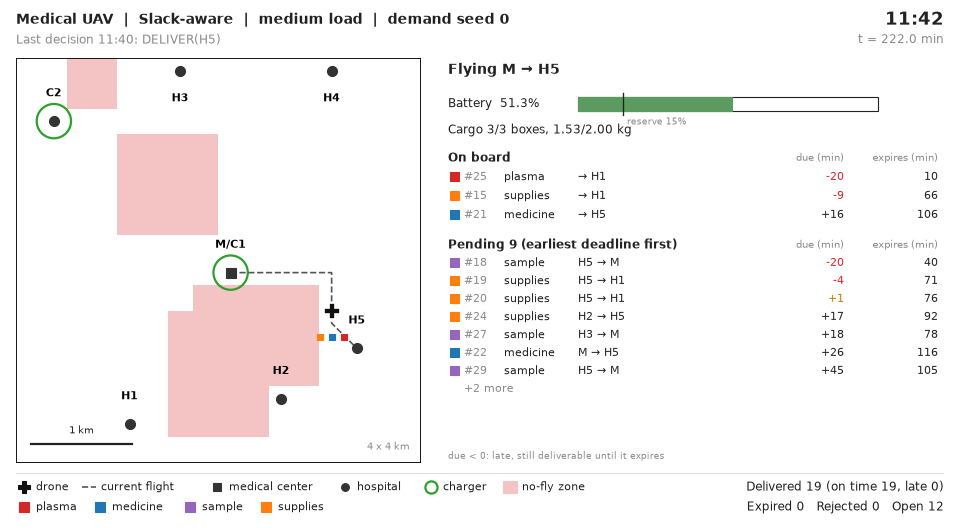
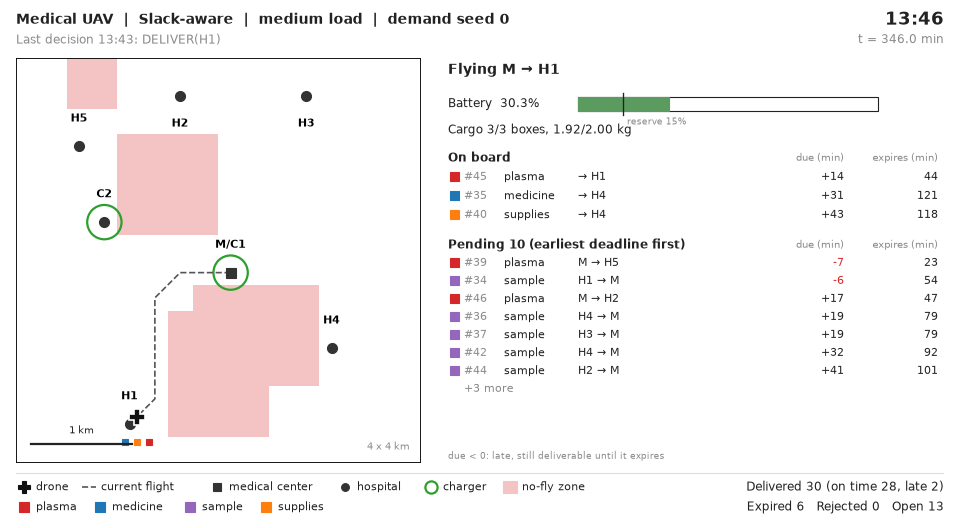
Recalibrate on the revised map 0; new README frame
Loads stay 0.04/0.08/0.12 (Slack-aware 1.00/0.87/0.67, EDF 1.00/0.56/0.29, theta 20).
C2 now takes 22-31 % of the baselines' charges. Default demo snapshot at 13:46.

diff --git a/scripts/demo.py b/scripts/demo.py
@@ -22,7 +22,7 @@ from medical_uav.metrics import episode_metrics, summary_lines
 
 NON_INTERACTIVE_BACKENDS = ("agg", "pdf", "svg", "ps", "cairo", "template")
 POLICY_NAMES = {"slack": "Slack-aware", "edf": "EDF", "random": "Random"}
-DEFAULT_SNAPSHOT = 222.0  # minutes; a busy moment of the default day
+DEFAULT_SNAPSHOT = 346.0  # minutes; a busy moment of the default day
 
 
 def make_policy(name: str, seed: int):

diff --git a/docs/reports/m1/calibration.md b/docs/reports/m1/calibration.md
@@ -1,41 +1,26 @@
-Command: python scripts/calibrate.py --tune-theta --map-check 200 --benchmark
+Command: python scripts/calibrate.py --tune-theta --out outputs/calibration_newmap
 
-map_seed = 0; dev seeds 100000..100039 (40 days per row); charging threshold θ edf 20 %, slack 20 %
+map seed 0; demand seeds 100000-100039 (40 days per row); charging threshold EDF 20%, Slack-aware 20% (tuned in this run).
+
+λ is the base arrival rate in orders per minute. Rates are means of the daily rates over the days of a row, with the population SD across days; a day's on-time rate is on-time deliveries / all orders released that day (rejected included). Pool statistics are pooled over all decisions; hidden % is the share of decisions at which an order that could still be on time (direct estimate) is not among the 12 visible slots.
 
 | λ | policy | orders | on-time (mean ± day SD) | served | expired | rejected | km/deliv | charge | busy | decisions | pool mean/p95/max | hidden % | hidden mean |
 |---|---|---|---|---|---|---|---|---|---|---|---|---|---|
-| 0.04 | slack | 21.6 | 1.00 ± 0.01 | 1.00 | 0.00 | 0.0 | 4.71 | 0.15 | 0.39 | 3230 | 0.5/2/5 | 0.0 | 0.00 |
-| 0.04 | edf | 21.6 | 1.00 ± 0.01 | 1.00 | 0.00 | 0.0 | 4.85 | 0.15 | 0.39 | 3226 | 0.5/2/6 | 0.0 | 0.00 |
-| 0.04 | random | 21.6 | 0.47 ± 0.16 | 0.78 | 0.22 | 0.0 | 10.80 | 0.26 | 0.48 | 3775 | 1.8/5/12 | 0.0 | 0.00 |
-| 0.06 | slack | 35.5 | 0.94 ± 0.07 | 0.97 | 0.03 | 0.0 | 4.01 | 0.21 | 0.57 | 3659 | 1.6/6/11 | 0.0 | 0.00 |
-| 0.06 | edf | 35.5 | 0.81 ± 0.22 | 0.99 | 0.01 | 0.0 | 4.34 | 0.22 | 0.58 | 3739 | 2.2/7/11 | 0.0 | 0.00 |
-| 0.06 | random | 35.5 | 0.31 ± 0.10 | 0.60 | 0.40 | 0.0 | 9.29 | 0.28 | 0.53 | 4018 | 4.1/10/16 | 0.0 | 0.00 |
-| 0.08 | slack | 47.1 | 0.84 ± 0.08 | 0.92 | 0.08 | 0.0 | 3.58 | 0.23 | 0.65 | 3943 | 3.3/9/16 | 0.4 | 0.00 |
-| 0.08 | edf | 47.1 | 0.51 ± 0.22 | 0.93 | 0.07 | 0.0 | 4.10 | 0.24 | 0.66 | 4162 | 4.9/12/22 | 0.9 | 0.01 |
-| 0.08 | random | 47.1 | 0.23 ± 0.07 | 0.48 | 0.52 | 0.0 | 9.22 | 0.29 | 0.56 | 4120 | 6.3/14/23 | 0.8 | 0.01 |
-| 0.10 | slack | 58.1 | 0.72 ± 0.09 | 0.85 | 0.15 | 0.0 | 3.23 | 0.23 | 0.70 | 4152 | 5.4/14/23 | 3.5 | 0.10 |
-| 0.10 | edf | 58.1 | 0.30 ± 0.12 | 0.81 | 0.19 | 0.0 | 4.06 | 0.25 | 0.68 | 4453 | 7.8/17/27 | 4.9 | 0.16 |
-| 0.10 | random | 58.1 | 0.19 ± 0.04 | 0.42 | 0.58 | 0.0 | 8.56 | 0.30 | 0.57 | 4316 | 8.4/18/29 | 3.5 | 0.11 |
-| 0.12 | slack | 67.9 | 0.65 ± 0.10 | 0.80 | 0.20 | 0.0 | 2.99 | 0.22 | 0.72 | 4372 | 7.2/17/28 | 5.9 | 0.18 |
-| 0.12 | edf | 67.9 | 0.26 ± 0.09 | 0.71 | 0.29 | 0.1 | 4.13 | 0.25 | 0.70 | 4591 | 10.1/21/30 | 10.9 | 0.34 |
-| 0.12 | random | 67.9 | 0.18 ± 0.04 | 0.38 | 0.62 | 0.3 | 8.43 | 0.30 | 0.58 | 4403 | 10.2/22/30 | 7.8 | 0.22 |
-| 0.14 | slack | 79.9 | 0.56 ± 0.08 | 0.72 | 0.28 | 0.1 | 2.79 | 0.22 | 0.73 | 4504 | 9.5/21/30 | 13.3 | 0.44 |
-| 0.14 | edf | 79.9 | 0.23 ± 0.03 | 0.61 | 0.39 | 0.7 | 4.14 | 0.25 | 0.71 | 4713 | 12.4/24/30 | 18.6 | 0.70 |
-| 0.14 | random | 79.9 | 0.16 ± 0.04 | 0.33 | 0.66 | 0.8 | 8.26 | 0.30 | 0.59 | 4426 | 12.5/25/30 | 15.1 | 0.51 |
-
-Gate G1 (amended 2026-10-11): load levels are calibrated against the strong Slack-aware heuristic,
-not EDF (EDF keeps chasing orders that can no longer be on time and falls far behind at moderate load).
-- Map: `map_seed = 0` (max A*/straight-line ratio 2.04); 200/200 map seeds generate (1.01 attempts).
-- Loads: low λ = 0.04, medium λ = 0.08, high λ = 0.12 orders/min. Slack-aware on-time: 1.00 / 0.84 / 0.65;
-  EDF: 1.00 / 0.51 / 0.26. λ = 0.10 is a diagnostic point; λ = 0.14 is a stress setting only
-  (an on-time-feasible order is hidden beyond the 12 slots in 13 % of decisions).
-- Charging threshold θ tuned per heuristic on dev seeds at λ 0.08 from {20, 30, 40} %:
-  EDF 0.514 / 0.444 / 0.421, Slack-aware 0.842 / 0.829 / 0.820 -> θ = 20 % for both.
-- Throughput: ~9,100 decisions/s per process (random policy, medium load).
-
-Columns: on-time is the mean over days ± the day-to-day standard deviation; on-time / served /
-expired are fractions of all released orders; decisions = total decisions in the row's 40 days; rejected = orders per day
-refused because the pending pool was full; km/deliv = km flown per delivered order; charge / busy =
-share of the episode spent charging / flying+handling; pool = pending orders at each decision
-(mean/p95/max); hidden % = share of decisions in which at least one order that could still be on
-time was outside the 12 visible slots; hidden mean = average number of such orders per decision.
+| 0.04 | slack | 21.6 | 1.00 ± 0.00 | 1.00 | 0.00 | 0.0 | 4.43 | 0.14 | 0.37 | 3278 | 0.5/2/7 | 0.0 | 0.00 |
+| 0.04 | edf | 21.6 | 1.00 ± 0.02 | 1.00 | 0.00 | 0.0 | 4.55 | 0.14 | 0.38 | 3283 | 0.5/2/8 | 0.0 | 0.00 |
+| 0.04 | random | 21.6 | 0.59 ± 0.14 | 0.86 | 0.14 | 0.0 | 7.76 | 0.21 | 0.42 | 4349 | 1.5/5/11 | 0.0 | 0.00 |
+| 0.06 | slack | 35.5 | 0.96 ± 0.06 | 0.99 | 0.01 | 0.0 | 3.81 | 0.20 | 0.56 | 3749 | 1.5/5/11 | 0.0 | 0.00 |
+| 0.06 | edf | 35.5 | 0.86 ± 0.20 | 0.99 | 0.01 | 0.0 | 4.14 | 0.21 | 0.58 | 3806 | 2.0/7/12 | 0.0 | 0.00 |
+| 0.06 | random | 35.5 | 0.39 ± 0.13 | 0.72 | 0.28 | 0.0 | 6.45 | 0.24 | 0.51 | 4619 | 3.6/9/14 | 0.0 | 0.00 |
+| 0.08 | slack | 47.1 | 0.87 ± 0.08 | 0.95 | 0.05 | 0.0 | 3.33 | 0.22 | 0.65 | 4014 | 3.2/9/14 | 0.3 | 0.00 |
+| 0.08 | edf | 47.1 | 0.56 ± 0.23 | 0.94 | 0.06 | 0.0 | 3.93 | 0.24 | 0.66 | 4236 | 4.7/12/22 | 1.3 | 0.02 |
+| 0.08 | random | 47.1 | 0.32 ± 0.08 | 0.60 | 0.40 | 0.0 | 6.18 | 0.26 | 0.55 | 4796 | 5.6/13/20 | 0.6 | 0.01 |
+| 0.10 | slack | 58.1 | 0.75 ± 0.09 | 0.88 | 0.12 | 0.0 | 3.01 | 0.22 | 0.70 | 4248 | 5.2/14/21 | 3.0 | 0.08 |
+| 0.10 | edf | 58.1 | 0.32 ± 0.13 | 0.83 | 0.17 | 0.0 | 3.89 | 0.24 | 0.69 | 4538 | 7.7/17/27 | 4.8 | 0.15 |
+| 0.10 | random | 58.1 | 0.27 ± 0.05 | 0.51 | 0.49 | 0.0 | 6.06 | 0.26 | 0.57 | 4898 | 7.7/17/29 | 3.1 | 0.09 |
+| 0.12 | slack | 67.9 | 0.67 ± 0.09 | 0.81 | 0.19 | 0.0 | 2.87 | 0.22 | 0.72 | 4426 | 7.1/16/27 | 6.1 | 0.19 |
+| 0.12 | edf | 67.9 | 0.29 ± 0.13 | 0.73 | 0.27 | 0.1 | 3.87 | 0.24 | 0.70 | 4646 | 9.8/21/30 | 11.1 | 0.33 |
+| 0.12 | random | 67.9 | 0.23 ± 0.06 | 0.46 | 0.54 | 0.2 | 5.95 | 0.27 | 0.58 | 4992 | 9.7/20/30 | 6.8 | 0.20 |
+| 0.14 | slack | 79.9 | 0.59 ± 0.07 | 0.73 | 0.27 | 0.1 | 2.68 | 0.22 | 0.74 | 4588 | 9.3/20/30 | 13.2 | 0.43 |
+| 0.14 | edf | 79.9 | 0.24 ± 0.03 | 0.63 | 0.36 | 0.6 | 3.91 | 0.24 | 0.71 | 4838 | 12.4/25/30 | 19.6 | 0.73 |
+| 0.14 | random | 79.9 | 0.21 ± 0.04 | 0.41 | 0.58 | 0.7 | 5.91 | 0.28 | 0.59 | 5139 | 11.8/24/30 | 13.7 | 0.44 |

diff --git a/docs/superpowers/specs/2026-10-10-medical-uav-design.md b/docs/superpowers/specs/2026-10-10-medical-uav-design.md
@@ -49,10 +49,10 @@ The agent decides, at every decision point, **which order to pick up next, where
 
 ### 4.1 Map
 - Grid 16 × 16 cells, 0.25 km per cell (4 km × 4 km). 2–4 static rectangular no-fly zones.
-- 7 nodes: center **M** (also charging station **C1**), hospitals **H1–H5**, standalone charging station **C2**. Nodes sit on free cells, minimum spacing 0.75 km; C2 at least 1 km from M.
+- 7 nodes: center **M** (also charging station **C1**), hospitals **H1–H5**, standalone charging station **C2**. M and H1–H5 sit on random free cells at least one cell from the border, minimum spacing 0.75 km. C2 is then placed on the free cell (≥ 1 km from M, same spacing) that minimises the longest hospital-to-nearest-charger route (ties: total route length, then seeded random), and must bring at least one hospital closer to a charger (revised 2026-10-14: a random C2 on the old map 0 served one hospital and took 6–12 % of charges; now 3 of 5 hospitals and 22–31 %). At least one M–hospital route must be lengthened by the zones by one cell or more.
 - 8-connected A* (diagonal cost √2, no corner cutting) between all node pairs at map creation → 7 × 7 matrices of distance (km) and flight time, plus the cell path for rendering.
 - **Validity check** (regenerate with next sub-seed if it fails, max 100 tries; the regeneration success rate is logged and re-checked after any map-size change): all pairs connected; from 100 % battery at either charger, flying with 2 kg to any node i, then to any node j, then to the nearest charger leaves ≥ 15 %.
-- Main experiments use **one fixed map: `map_seed = 0`** (frozen in M1; its largest A*/straight-line ratio is 2.04, so no-fly zones clearly matter; 200/200 map seeds generate). Random maps are a stretch experiment (§11).
+- Main experiments use **one fixed map: `map_seed = 0`** (frozen in M1 after the C2 revision; its largest A*/straight-line ratio is 1.40; 200/200 map seeds generate). Random maps are a stretch experiment (§11).
 
 ### 4.2 Drone
 | parameter | value |
@@ -78,7 +78,7 @@ The agent decides, at every decision point, **which order to pick up next, where
 - Hospitals sampled uniformly. Weights chosen so that heavy mixes hit the 2 kg limit (3 plasma ≥ 1.8 kg) while light mixes hit the 3-box limit.
 - An order's age starts at release. Picking up does not reset it.
 - **Arrivals:** non-homogeneous Poisson over the 480-min release window, rate λ·m(t), with m(t) = 2.0 in [60, 180) and [300, 390) (two peaks) and 0.6 elsewhere. Expected orders per day = 582·λ.
-- **Load levels (v2, calibrated against the Slack-aware heuristic, gate G1):** low λ = 0.04 (≈ 23 orders/day), medium λ = 0.08 (≈ 47), high λ = 0.12 (≈ 70). λ = 0.10 is kept as a diagnostic point; λ = 0.14 (≈ 81) only as a labelled stress appendix (it hides on-time-feasible orders beyond the 12 slots in 13 % of decisions). Measured on 40 dev seeds (M1 final calibration, both heuristics with tuned θ): Slack-aware on-time 1.00 / 0.84 / 0.65 at 0.04 / 0.08 / 0.12 (0.72 at 0.10); EDF 1.00 / 0.51 / 0.26 (0.30 at 0.10). The v1 choice (0.04/0.06/0.10 from EDF) is superseded: EDF chases hopeless late orders and is a strawman for calibration.
+- **Load levels (v2, calibrated against the Slack-aware heuristic, gate G1):** low λ = 0.04 (≈ 23 orders/day), medium λ = 0.08 (≈ 47), high λ = 0.12 (≈ 70). λ = 0.10 is kept as a diagnostic point; λ = 0.14 (≈ 81) only as a labelled stress appendix (it hides on-time-feasible orders beyond the 12 slots in 13 % of decisions). Measured on 40 dev seeds (M1 final calibration, both heuristics with tuned θ): Slack-aware on-time 1.00 / 0.87 / 0.67 at 0.04 / 0.08 / 0.12 (0.75 at 0.10); EDF 1.00 / 0.56 / 0.29 (0.32 at 0.10); θ = 20 for both (re-measured on the revised map 0; medium is slightly above the 0.85 target but the levels were kept). The v1 choice (0.04/0.06/0.10 from EDF) is superseded: EDF chases hopeless late orders and is a strawman for calibration.
 - The full day's orders are generated from `demand_seed` at `reset()` and revealed only at their release times. They never depend on the agent's actions, so every method sees exactly the same order stream for a given seed.
 - **Pending pool cap** 30 (orders released but not picked up). An arrival that finds the pool full is rejected.
 - **Measured regime (M1):** ≈ 90–110 decisions per day; charging ≈ 23 % of the day; ≈ 5 km flown per delivered order; mean / p95 / max pending pool ≈ 1.7/6/11 at λ 0.06, 5.1/13/23 at 0.10, 7.4/17/25 at 0.12. Medium-load peaks (≈ 9.6 orders/hour) exceed unbatched capacity, so triage and batching matter exactly when demand peaks.

diff --git a/README.md b/README.md
@@ -7,7 +7,7 @@ baseline policies are included: random, earliest deadline first (EDF) and Slack-
 
 NUS ME5418, Group 17 (Jihang Cai, Yu Liu, Yufeng Zhang). Milestone 1: the environment.
 
-![The environment at 11:42 of a simulated day](assets/demo.png)
+![The environment at 13:46 of a simulated day](assets/demo.png)
 
 ## Requirements
 
@@ -41,15 +41,15 @@ python scripts/demo.py --no-video
 ```
 
 This runs one simulated day with the Slack-aware policy (medium load, demand seed 0), prints the
-results and saves the frame shown above to `outputs/demo_slack_medium_seed0_t222min.png`. It takes
+results and saves the frame shown above to `outputs/demo_slack_medium_seed0_t346min.png`. It takes
 a few seconds. The output starts with:
 
 ```
 Medical UAV | Slack-aware | medium load | demand seed 0 | map seed 0
 
-Completed at 16:54 (t=534.1 min) after 111 decisions
-  Orders   64 released: delivered 52/64 (81.2%), expired 12/64 (18.8%), rejected 0/64 (0.0%)
-  On time  45/64 (70.3%); late 7 (mean 29.7 min late)
+Completed at 17:07 (t=547.3 min) after 111 decisions
+  Orders   64 released: delivered 53/64 (82.8%), expired 11/64 (17.2%), rejected 0/64 (0.0%)
+  On time  43/64 (67.2%); late 10 (mean 24.8 min late)
 ```
 
 To see the whole day:
@@ -64,7 +64,7 @@ python scripts/demo.py           # save the day as outputs/demo_slack_medium_see
 | `--policy {slack,edf,random}` | which baseline policy decides (default `slack`) |
 | `--load {low,medium,high}` | how many orders arrive (default `medium`) |
 | `--seed N` | which day of orders (default 0) |
-| `--snapshots 0 100 ...` | save PNG frames at these simulated minutes (default 222) |
+| `--snapshots 0 100 ...` | save PNG frames at these simulated minutes (default 346) |
 | `--out FILE` | animation file, `.gif` or `.mp4` |
 
 `python scripts/demo.py --help` lists all options.

diff --git a/docs/reports/m1/outline.md b/docs/reports/m1/outline.md
@@ -35,9 +35,9 @@ export it to PDF and add the PDF to the submission zip next to the code archive.
   them, so the observation has a fixed size.
 - One fixed map for the main experiments; random maps are kept for a later generalization test.
 - Calibration (`calibration.md`): EDF turned out to be a weak reference — it keeps chasing orders
-  that can no longer be on time and falls far behind at moderate load (0.51 on time at λ 0.08, with
+  that can no longer be on time and falls far behind at moderate load (0.56 on time at λ 0.08, with
   its charging threshold tuned). A Slack-aware heuristic (deliver at the current node first, batch
-  same-destination orders, put hopeless work last) scores 1.00 / 0.84 / 0.65 at λ 0.04 / 0.08 / 0.12,
+  same-destination orders, put hopeless work last) scores 1.00 / 0.87 / 0.67 at λ 0.04 / 0.08 / 0.12,
   so the load levels are defined against it.
   Triage of hopeless orders is the largest single effect, batching the second.
 - The environment runs ~9,100 decisions/s per process, ~90–110 decisions per day.
